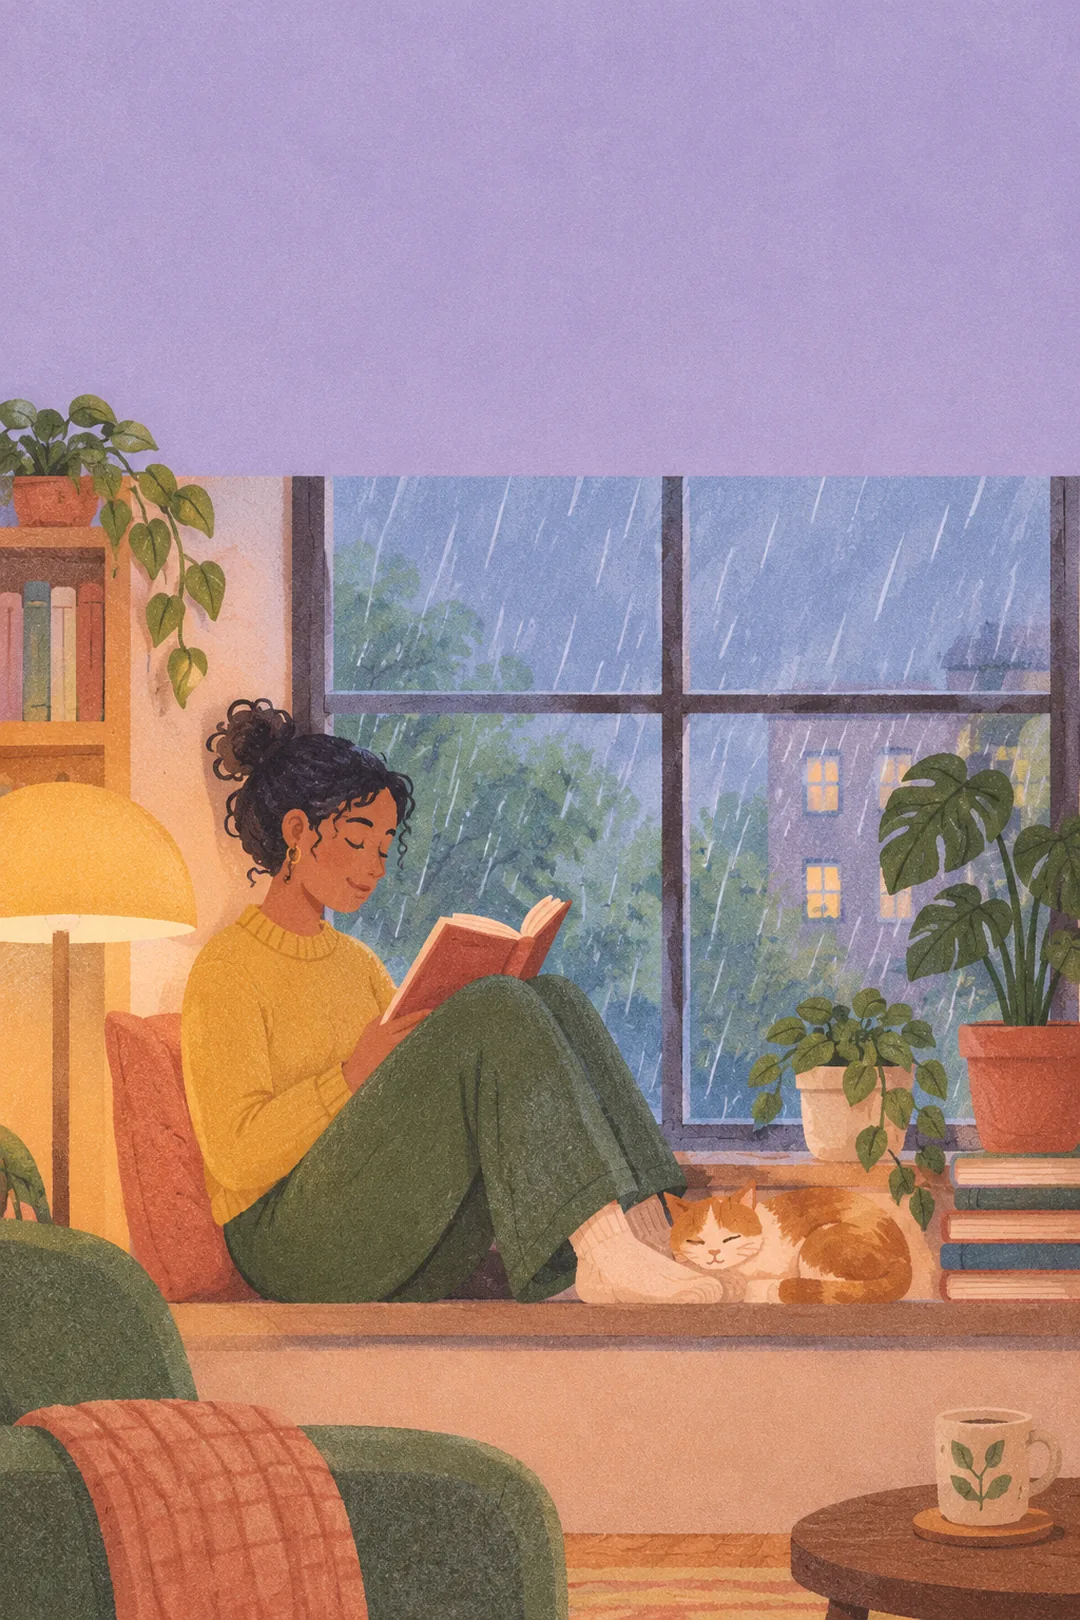
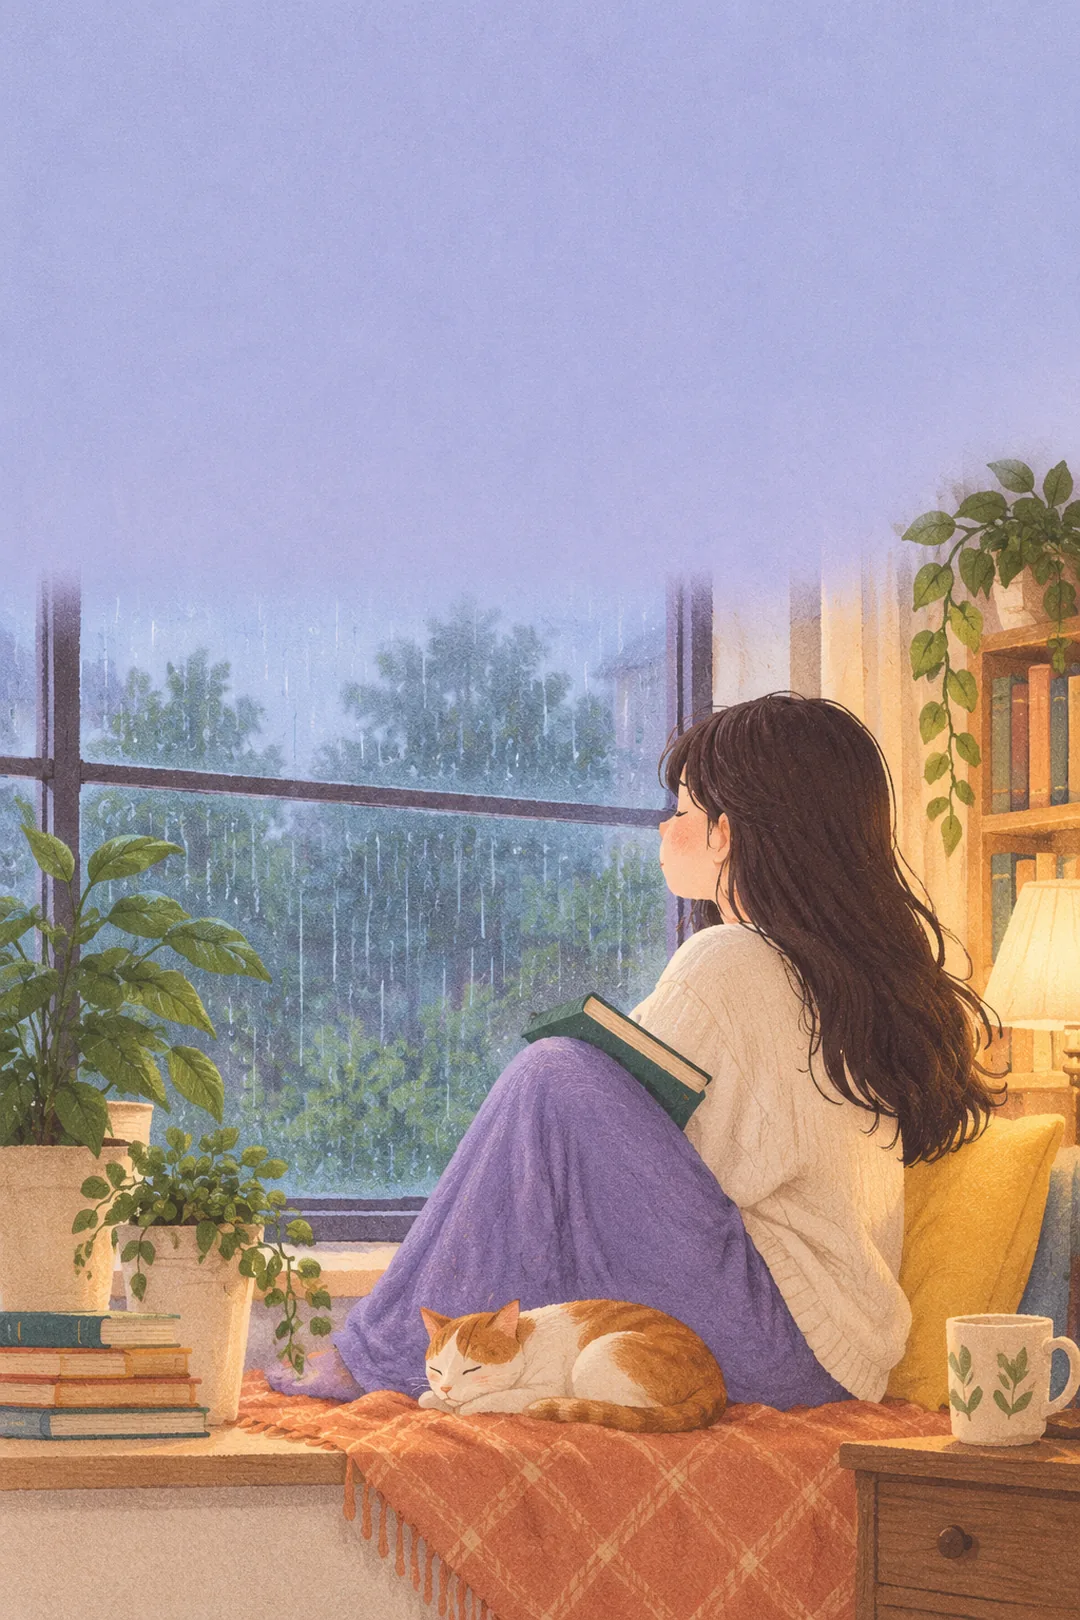
Тестовая версия: итоги года - в лодке парень и девушка разговаривают, девушка у окна смотрит на дождь
Claude-Session: https://claude.ai/code/session_01SUGbBJABTzQffgUCv1qAqi

diff --git a/app-dev.html b/app-dev.html
@@ -7152,7 +7152,7 @@ async function wrCards(D){await wrFonts();const S="NoraDisp, Georgia, serif",F="
   const SP=(x,v)=>{if("letterSpacing" in x)x.letterSpacing=v};
   const pool=[D.top[0]||D.last,...D.top.slice(1),...D.L.slice().reverse()].filter((b,i,a)=>b&&a.indexOf(b)===i).slice(0,5),ims=await Promise.all(pool.map(b=>wrCov(b).catch(()=>null)));
   const hero=pool[0],imOf=b=>ims[pool.indexOf(b)]||null,st=b=>b&&b.r!=null?Math.max(1,Math.min(5,Math.round(b.r/2))):0,genre=D.gk.length?String(GEN[D.gk[0][0]]||""):"";
-  const ART={};await Promise.all(["main","book","pages","month","type"].map(async k=>{ART[k]=await wrLd("img/itogi/g-"+k+".webp?v=2")}));
+  const ART={};await Promise.all(["main","book","pages","month","type"].map(async k=>{ART[k]=await wrLd("img/itogi/g-"+k+".webp?v=3")}));
   const PAL=["#5B6B8C","#9A4A36","#6E8763","#7A5A86","#B08A3E"];
   const cover=(x,b,X,Y,w,h,i)=>{const im=imOf(b);x.save();x.shadowColor="rgba(43,36,64,.3)";x.shadowBlur=24;x.shadowOffsetY=10;x.fillStyle="#fff";x.fillRect(X,Y,w,h);x.restore();x.save();x.beginPath();x.rect(X,Y,w,h);x.clip();
     if(im){const s=Math.max(w/im.naturalWidth,h/im.naturalHeight),iw=im.naturalWidth*s,ih=im.naturalHeight*s;x.drawImage(im,X+(w-iw)/2,Y+(h-ih)/2,iw,ih)}
@@ -7182,7 +7182,7 @@ async function wrCards(D){await wrFonts();const S="NoraDisp, Georgia, serif",F="
     x.font=`500 36px ${F}`;x.fillStyle=MUTE;wrWrap(x,t,900,2).forEach((l,i)=>x.fillText(l,80,640+i*48));site(x);out.push(c)}
   // 4. месяц
   {const bm=D.mon[D.best]||0;if(n>=2&&bm){const [c,x]=mk("month");kick(x,"САМЫЙ ЧИТАЮЩИЙ МЕСЯЦ",230);const m=WR_MF[D.best];x.fillStyle=INK;fitS(x,m,920,200);x.fillText(m.slice(0,1).toUpperCase()+m.slice(1),70,440);
-    x.font=`italic 600 58px ${S}`;x.fillText(`${bm} ${plural(bm,"книга","книги","книг")} за месяц`,80,560);x.font=`500 36px ${F}`;x.fillStyle=MUTE;x.fillText("Подоконник, плед и ещё одна глава",80,630);site(x);out.push(c)}}
+    x.font=`italic 600 58px ${S}`;x.fillText(`${bm} ${plural(bm,"книга","книги","книг")} за месяц`,80,560);x.font=`500 36px ${F}`;x.fillStyle=MUTE;x.fillText("Дождь за окном и ещё одна глава",80,630);site(x);out.push(c)}}
   // 5. читательский тип
   {const [c,x]=mk("type");kick(x,"МОЙ ЧИТАТЕЛЬСКИЙ ТИП",230);x.fillStyle=INK;let f=110;x.font=`600 ${f}px ${S}`;while(f>56&&wrWrap(x,D.type[0],920,2).some(l=>x.measureText(l).width>920)){f-=6;x.font=`600 ${f}px ${S}`}
     let y=240+f;wrWrap(x,D.type[0],920,2).forEach(l=>{x.fillText(l,70,y);y+=f});x.font=`500 36px ${F}`;x.fillStyle=MUTE;wrWrap(x,D.type[1]+".",900,2).forEach(l=>{x.fillText(l,80,y+10);y+=48});
